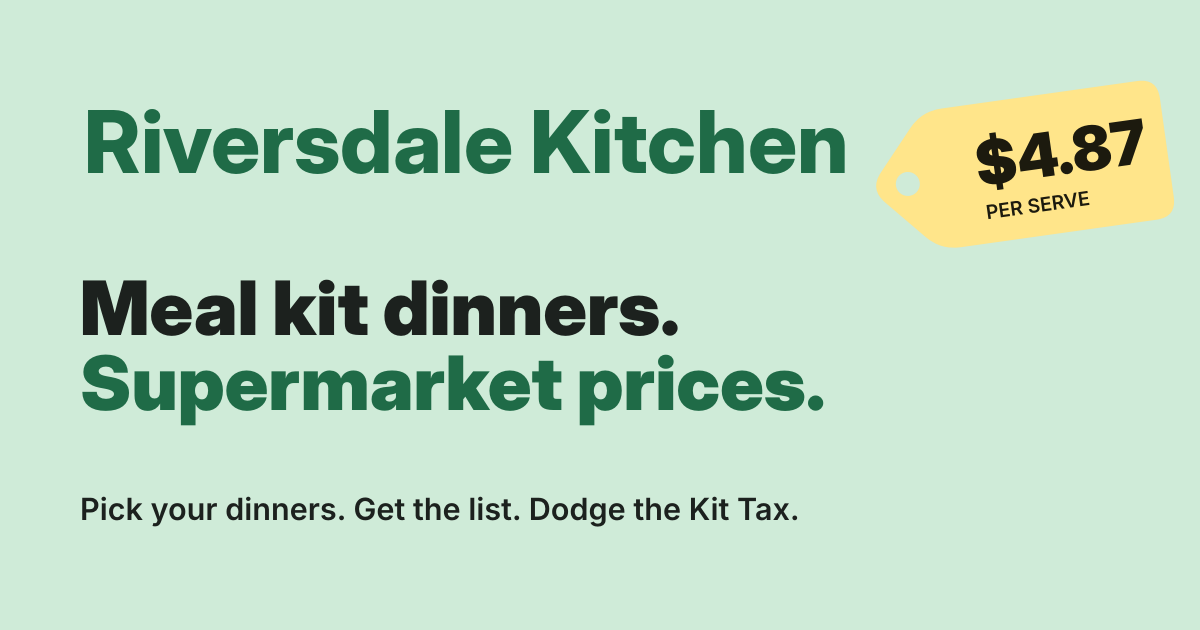
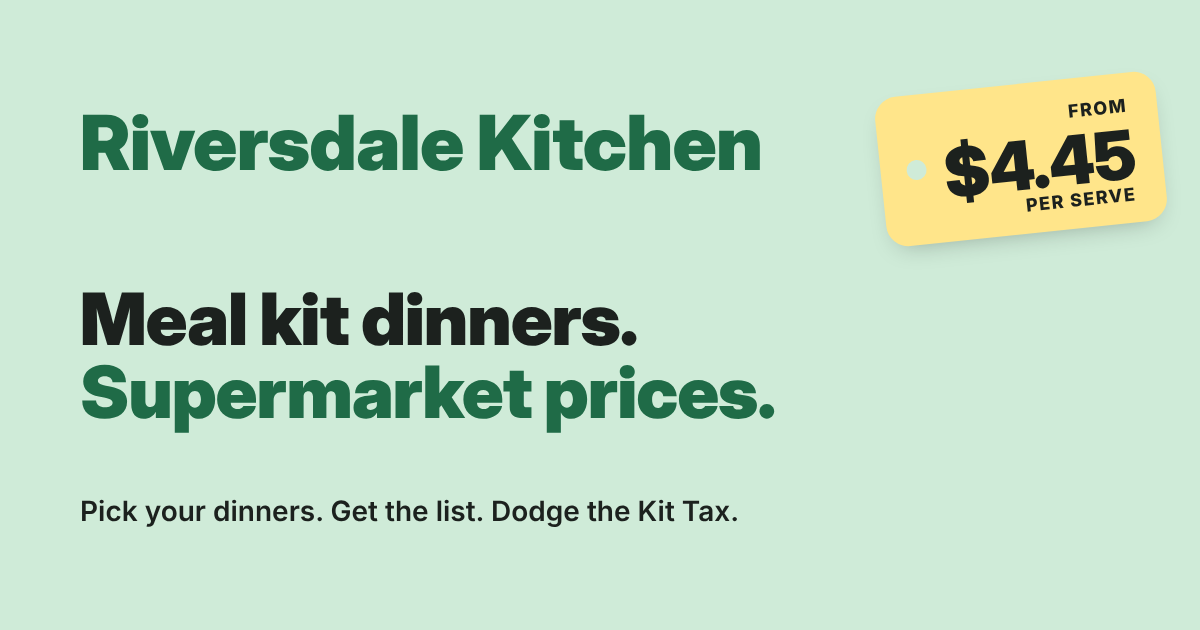
Share image: from $4.45 a serve, this week's cheapest dinner

Changed region(s): [[0.0617, 0.4222, 0.7092, 0.6937], [0.0617, 0.0905, 0.9867, 0.3921], [0.0617, 0.7841, 0.6783, 0.8444]]

diff --git a/index.html b/index.html
@@ -8,7 +8,7 @@
 <meta name="description" content="Pick your dinners, set your budget, and Riversdale Kitchen builds the shopping list from your local Coles, Woolies or Aldi. Same food as the meal kits, bigger serves, no box.">
 <meta property="og:title" content="Riversdale Kitchen · Meal kit dinners at supermarket prices">
 <meta property="og:description" content="Pick your dinners, set your budget, and Riversdale Kitchen builds the shopping list from your local Coles, Woolies or Aldi. Same food as the meal kits, bigger serves, no box.">
-<meta property="og:image" content="https://riversdalekitchen.com.au/assets/img/og.png">
+<meta property="og:image" content="https://riversdalekitchen.com.au/assets/img/og.png?v=20261019">
 <meta property="og:url" content="https://riversdalekitchen.com.au/">
 <link rel="canonical" href="https://riversdalekitchen.com.au/">
 <meta property="og:type" content="website">

diff --git a/plan.html b/plan.html
@@ -8,7 +8,7 @@
 <meta name="description" content="Plan the week's dinners, get a priced shopping list for Coles, Woolies or Aldi, and see what you save against meal kits.">
 <meta property="og:title" content="Riversdale Kitchen · Meal kit dinners at supermarket prices">
 <meta property="og:description" content="Pick your dinners, set your budget, and Riversdale Kitchen builds the shopping list from your local Coles, Woolies or Aldi. Same food as the meal kits, bigger serves, no box.">
-<meta property="og:image" content="https://riversdalekitchen.com.au/assets/img/og.png">
+<meta property="og:image" content="https://riversdalekitchen.com.au/assets/img/og.png?v=20261019">
 <meta property="og:url" content="https://riversdalekitchen.com.au/plan.html">
 <link rel="canonical" href="https://riversdalekitchen.com.au/plan.html">
 <meta property="og:type" content="website">
